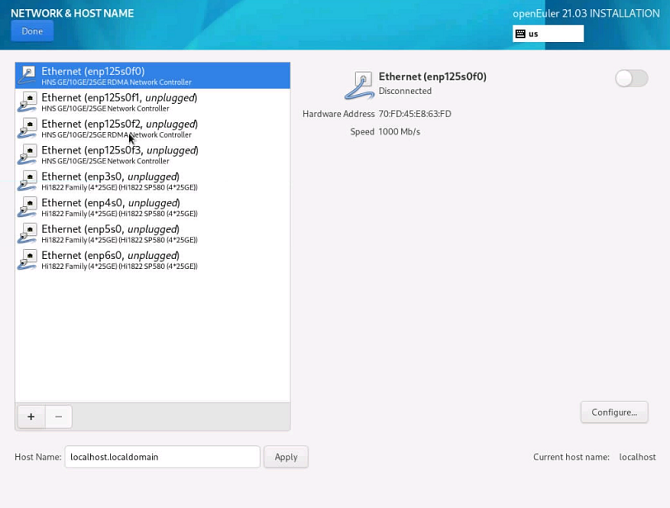
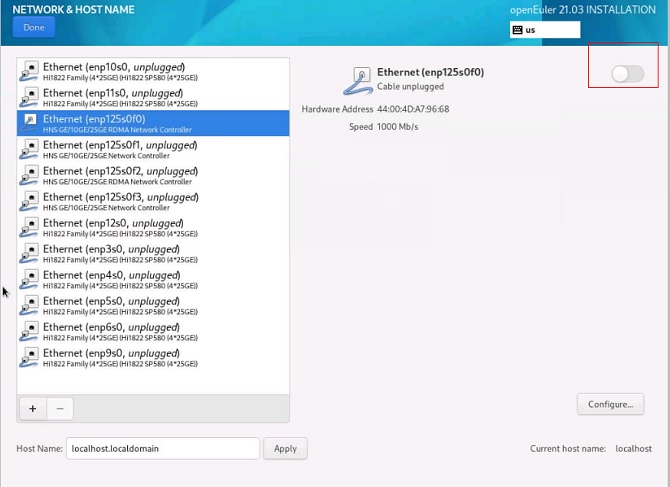
add

Changed region(s): [[0.0, 0.0, 1.0, 1.0], [0.8657, 0.8008, 0.9552, 0.8624], [0.3881, 0.8932, 0.4478, 0.9548]]

diff --git a/docs/zh/docs/Installation/安装指导.md b/docs/zh/docs/Installation/安装指导.md
@@ -176,9 +176,9 @@
 
 在“安装概览”页面中选择“软件选择”，指定需要安装的软件包。
 
-用户需要根据实际的业务需求，在左侧选择一个“最小安装”，在右侧选择安装环境的附加选项，如[图12](#zh-cn_topic_0186390261_zh-cn_topic_0122145865_fig03031519101414)所示。
+用户需要根据实际的业务需求，在左侧选择一个“最小安装”，在右侧选择安装环境的附加选项，如[图11](#zh-cn_topic_0186390261_zh-cn_topic_0122145865_fig03031519101414)所示。
 
-**图 12**  软件选择<a name="zh-cn_topic_0186390261_zh-cn_topic_0122145865_fig03031519101414"></a>  
+**图 11**  软件选择<a name="zh-cn_topic_0186390261_zh-cn_topic_0122145865_fig03031519101414"></a>  
 ![](./figures/choosesoftware.png)
 
 >![](./public_sys-resources/icon-note.gif) **说明：**   
@@ -191,10 +191,10 @@
 
 在“安装概览”页面中选择“安装目的地”，设置操作系统的安装磁盘及分区。
 
-在[图13](#fig1195417125015)所示的页面中您可以看到计算机中的本地可用存储设备。
+在[图12](#fig1195417125015)所示的页面中您可以看到计算机中的本地可用存储设备。
 
 
-**图 13**  安装目标位置<a name="fig1195417125015"></a>  
+**图 12**  安装目标位置<a name="fig1195417125015"></a>  
 ![](./figures/Target_installation_position.png)
 
 ### 存储配置
@@ -214,7 +214,7 @@
 
 若用户需进行手动分区，选择“自定义”按钮，并单击左上角“完成”，出现手动分区界面。
 
-在“手动分区”界面可以通过如下两种方式进行分区，分区完成后如[图14](#fig1277151815248)所示。
+在“手动分区”界面可以通过如下两种方式进行分区，分区完成后如[图13](#fig1277151815248)所示。
 
 - 自动创建：在界面单击“点击这里自动创建它们”，系统会根据可用的存储空间，自动分出4个挂载点：/boot 、/、/boot/efi、swap。
 
@@ -223,7 +223,7 @@
     >![](./public_sys-resources/icon-note.gif) **说明：**   
     >若设置的挂载点期望容量超过了可用空间，系统将剩余的可用空间全部分配给该挂载点。  
 
-**图 14**  手动分区<a name="fig1277151815248"></a>  
+**图 13**  手动分区<a name="fig1277151815248"></a>  
 ![](./figures/Manual_partitioning.png)
 
 >![](./public_sys-resources/icon-note.gif) **说明：**   
@@ -237,13 +237,15 @@
 
 在“安装概览”页面中选择“网络和主机名”，设置系统的网络功能。
 
-安装程序会自动探测可本地访问的接口。探测到的接口列在左侧方框中，右侧显示相应的接口详情，如[图15](#zh-cn_topic_0186390264_zh-cn_topic_0122145831_fig123700157297)所示。用户可以通过页面右上角的开关，来开启或者关闭网络接口。用户还可以单击“配置”以配置选中的接口。
+安装程序会自动探测可本地访问的接口。探测到的接口列在左侧方框中，右侧显示相应的接口详情，如[图14](#zh-cn_topic_0186390264_zh-cn_topic_0122145831_fig123700157297)所示。用户可以通过页面右上角的开关，来开启或者关闭网络接口。开关默认是关闭状态，若设置安装源选择的是在网络上安装，需要开启开关。用户还可以单击“配置”以配置选中的接口。勾选“自动以优先级连接”选项，即可将该网卡设置为开机自启动，如[图15](#zh-cn_topic_0186390264_zh-cn_topic_0122145831_fig6)所示。
 
 用户可在页面下方“主机名”字段输入主机名。主机名可以是完全限定域名（FQDN），其格式为hostname.domainname；也可以是简要主机名，其格式为hostname。
 
-**图 15**  网络和主机名<a name="zh-cn_topic_0186390264_zh-cn_topic_0122145831_fig123700157297"></a>  
+**图 14**  网络和主机名<a name="zh-cn_topic_0186390264_zh-cn_topic_0122145831_fig123700157297"></a>  
 ![](./figures/NetworkandHostName.png)
 
+**图 15**  配置网络<a name="zh-cn_topic_0186390264_zh-cn_topic_0122145831_fig6"></a>  
+![](./figures/confignetwork1.png)
 设置完成后，请单击左上角“完成”返回“安装概览”页面。
 
 ## 设置根密码

diff --git a/docs/en/docs/Installation/installation-guideline.md b/docs/en/docs/Installation/installation-guideline.md
@@ -263,12 +263,15 @@ click  **Accept Changes**  to go back to the  **INSTALLATION SUMMARY**  page.
 
 On the  **INSTALLATION SUMMARY**  page, select  **NETWORK \& HOST NAME**  to configure the system network functions.
 
-The installation program automatically detects a local access interface. The detected interface is listed in the left box, and the interface details are displayed in the right-hand area, as shown in  [Figure 14](#en-us_topic_0186390264_en-us_topic_0122145831_fig123700157297). In the upper right corner, click the switchover button to enable or disable the network interface. You can also click  **Configure**  to configure the selected interface.
+The installation program automatically detects a local access interface. The detected interface is listed in the left box, and the interface details are displayed in the right-hand area, as shown in  [Figure 14](#en-us_topic_0186390264_en-us_topic_0122145831_fig123700157297). You can enable or disable a network interface by clicking the switch in the upper right corner of the page. The switch is turned off by default. If the installation source is set to be the network, turn on the switch. You can also click **Configure** to configure the selected interface. Select **Connect automatically with priority** to enable the NIC to start automatically upon system startup, as shown in Figure 16.
 
 In the lower left box, enter the host name. The host name can be the fully quantified domain name (FQDN) in the format of hostname.domainname or the brief host name in the format of hostname.
 
 **Figure  14**  Setting the network and host name<a name="en-us_topic_0186390264_en-us_topic_0122145831_fig123700157297"></a>  
 ![](./figures/setting-the-network-and-host-name.png "setting-the-network-and-host-name")
+
+**Figure  15**  Config the network<a name="en-us_topic_0186390264_en-us_topic_0122145831_fig6"></a>  
+![](./figures/confignetwork.png "config-the-network")
 
 After the setting is complete, click **Done** in the upper left corner to go back to the **INSTALLATION SUMMARY** page.
 
